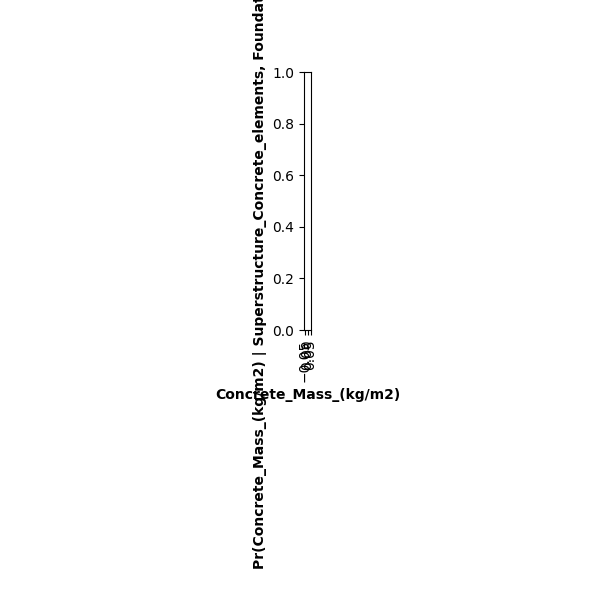
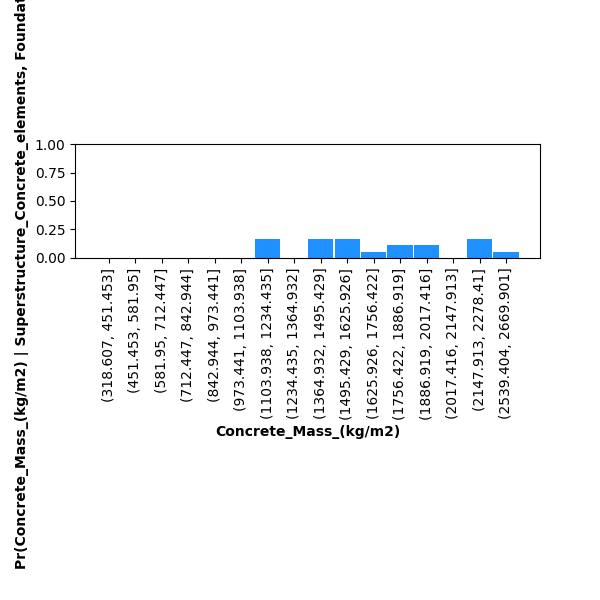
xxx

Changed region(s): [[0.3, 0.0, 0.87, 0.96], [0.03, 0.0, 0.15, 0.96], [0.15, 0.45, 0.27, 0.66]]

diff --git a/Bayesian_net/Build_ProbTables.py b/Bayesian_net/Build_ProbTables.py
@@ -105,7 +105,7 @@ class Build_ProbTables():
     def assign_evidence(self, prob_table: DataFrame, assignment_vals: list[dict])-> DataFrame:
         
         #!!!!!!!!!!!!!Add checks to raise errors here to see if: assigned variable are in the table and if assigned values a
-        # are in the variables domain. e.g. the returned dataframe is empty right now
+        # are in the variables domain. 
         
         
         for i in range(len(assignment_vals)):

diff --git a/Bayesian_net/main.py b/Bayesian_net/main.py
@@ -51,7 +51,7 @@ given_vars_vals: dict = [
     {'vr_name': 'Foundation_Type', 
      'val': 'Piled(Ground-beams/Caps)'},
      {'vr_name': 'Basement', 
-     'val': 'False'}
+     'val': True}
     ]
 
 x = pt.assign_evidence(prob_table=cpt_concrete_qty, assignment_vals=given_vars_vals)
